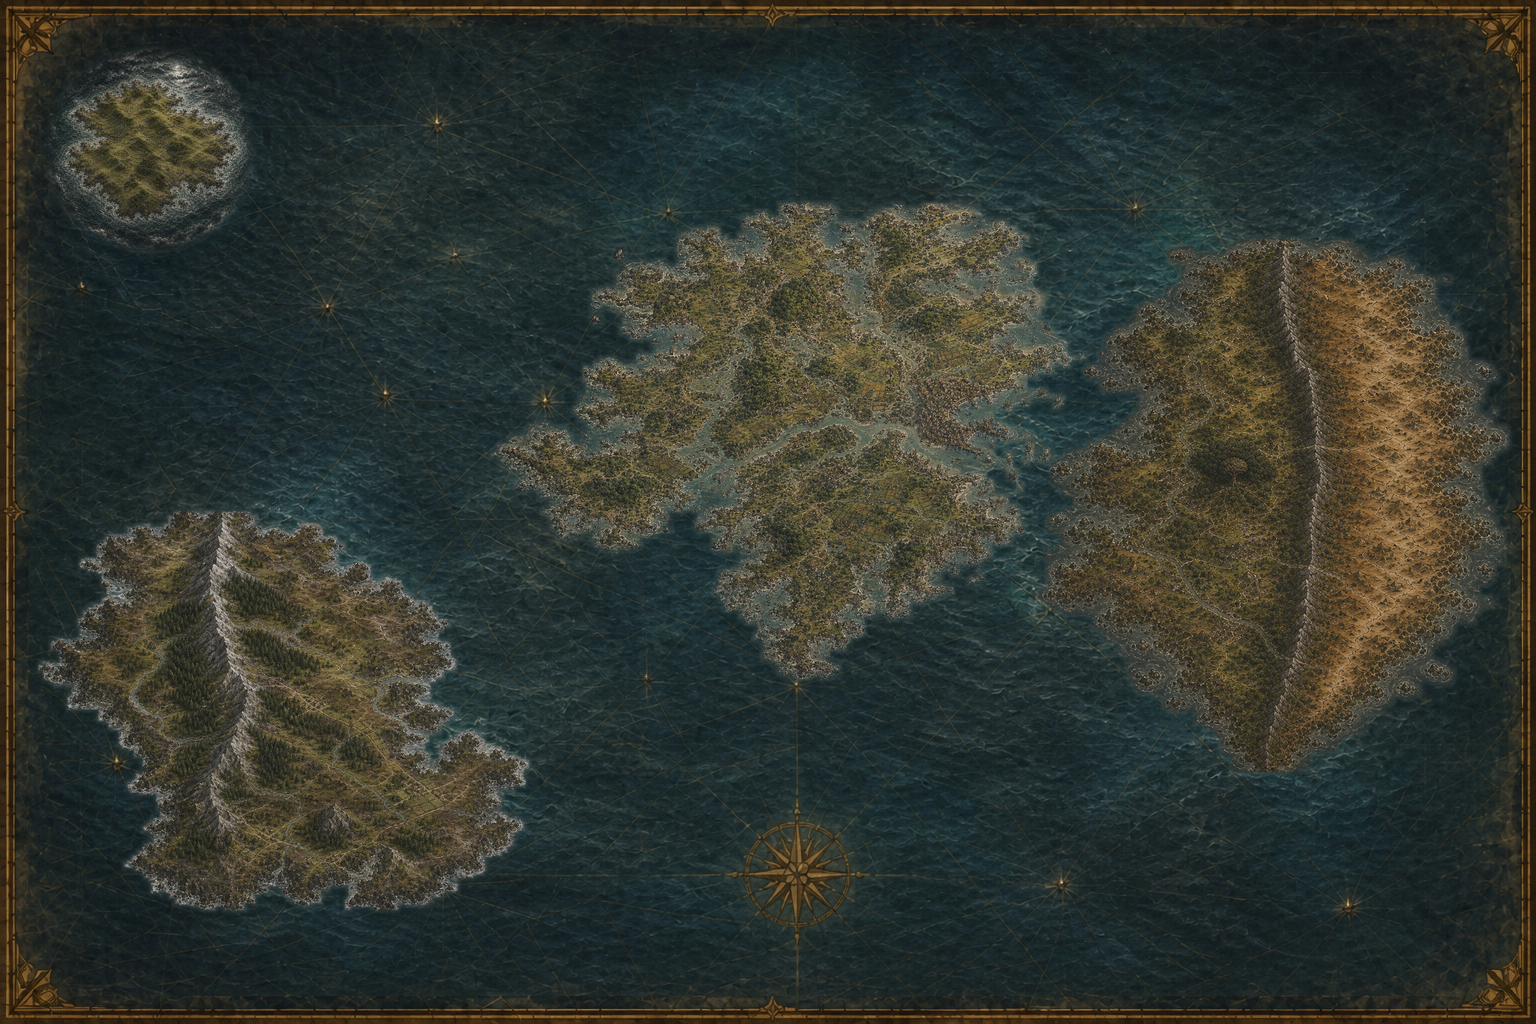
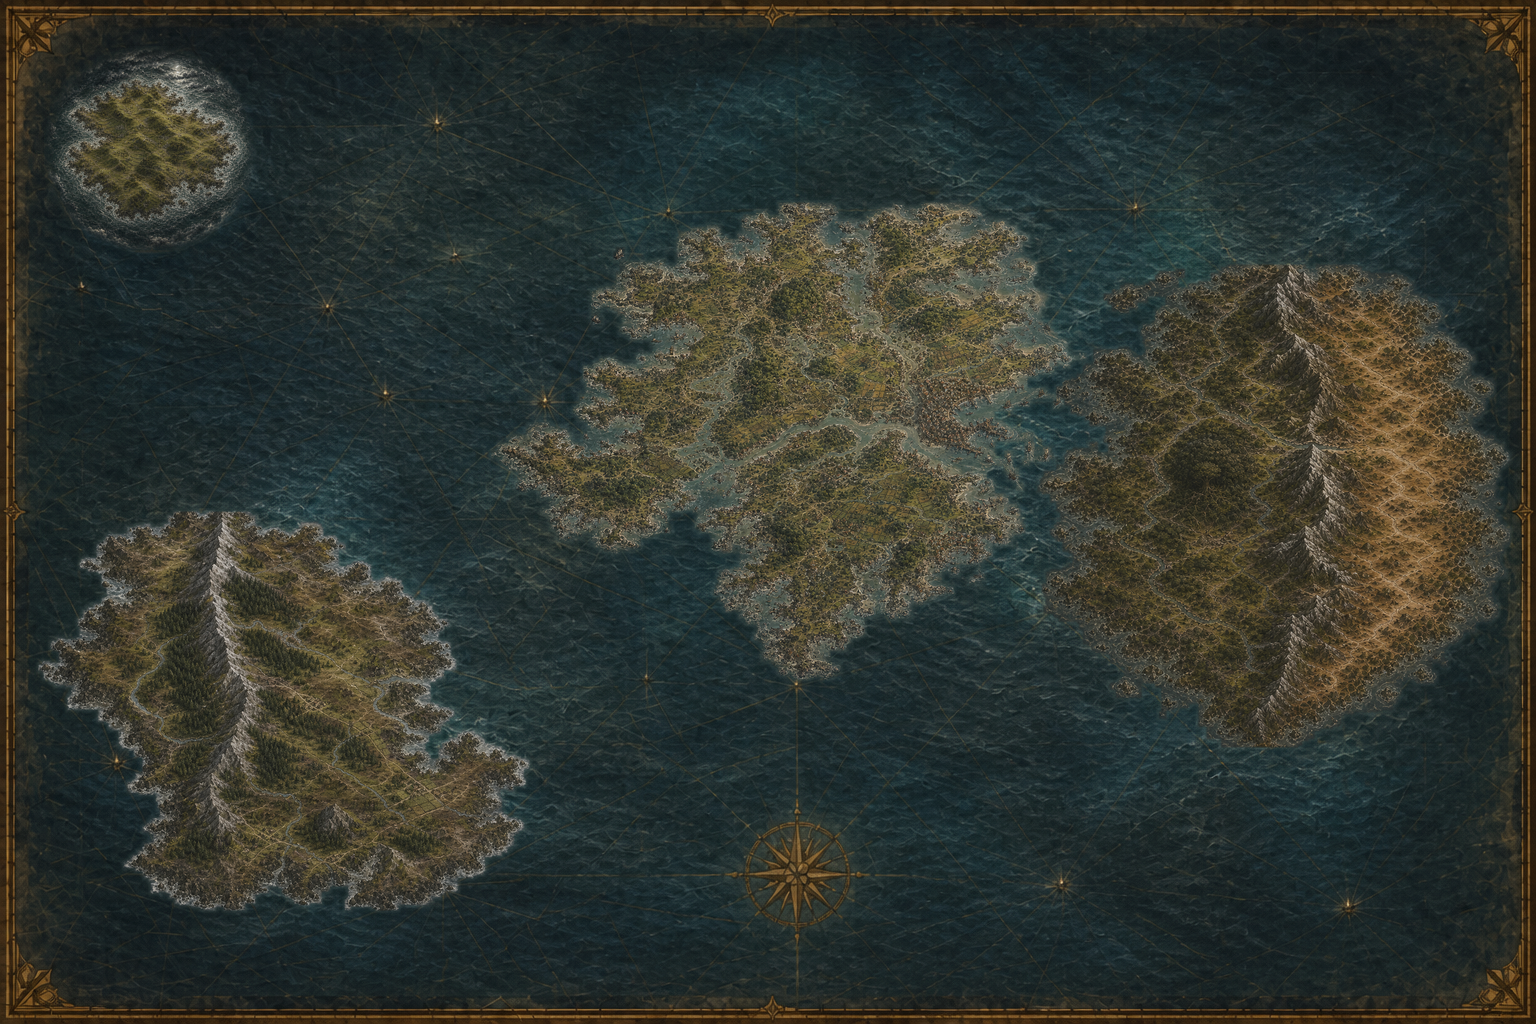
Give Maiethorn Rain-Wall natural character

Changed region(s): [[0.6562, 0.2188, 1.0, 0.75]]

diff --git a/14 - Assets/Maps/Map Generation Tooling.md b/14 - Assets/Maps/Map Generation Tooling.md
@@ -131,8 +131,10 @@ latitudes and almost touch. Between them a NARROW crowded channel — a handful
 of sailing-days, packed with tiny hull-ticks. They should read as one old
 settled world that happens to have a busy strait through it.
 
-MAIETHORN: bulky old continent. Western ports on the narrow sea. A LINEAR
-north-south rain-wall through its middle (not a ring). West of the spine:
+MAIETHORN: bulky old continent. Western ports on the narrow sea. An IRREGULAR
+north-south rain-divide through its middle (not a ring and not ruler-straight):
+three offset weathered massifs joined by saddles, branching foothills, and
+river-cut notches. West of the divide:
 green cathedral-country, river valleys, one irregular old-growth heart with a
 single enormous ancient tree-canopy. East of the spine: dry hills, sand-stipple,
 a dashed seasonal wash.
@@ -177,9 +179,13 @@ tree, darker and broader than any other canopy. A day's-walk ring of lodging
 country and one small walled town-mark just outside the wood (not a capital
 star). A thaw-river is born on the WEST FACE of the central highland and runs
 west, slowing at a counted river-town where the water can hold a mill and a
-grove. HIGHLAND SPINE north–south through the middle: weathered rain-wall,
-snow on the high shelves, two visible pass-notches (an older high notch with a
-pale water-stain line; a lower shelf-road still in use). EAST of the spine:
+grove. HIGHLAND CHAIN runs generally north–south through the middle as three
+offset weathered massifs. It bends, widens, narrows, branches into foothills,
+and briefly splits around upland basins before rejoining as one watershed.
+Broad saddles connect the massifs; snow lies on broken high shelves. Show two
+visible usable pass-notches (an older high notch with a pale water-stain line;
+a lower shelf-road still in use). Do not paint a uniform white knife-edge or a
+row of identical peaks. EAST of the divide:
 abrupt climate change — dry hills, sand-stipple, well-towns, a dashed seasonal
 watercourse, one west-road climbing back toward the passes. Ridge-perches and
 pale high snow on the spine. Mix of nucleated Tree-towns everywhere west of the

diff --git a/14 - Assets/Maps/Atlas Prototype Review.md b/14 - Assets/Maps/Atlas Prototype Review.md
@@ -74,7 +74,7 @@ The most atmospheric option: stronger sea states, rain, forest mass, and the wet
 - **Kumbaan:** one small island; complete storm/current/reef wall; rolling wet hill-country; no city, no quay, no graft, no hidden Tree, and no permanent safe channel.
 - **Heskoren:** rugged highlands distinct from Maiethorn's Rain-Wall; cooler moor and forest; sparse settlement pockets around surviving grafts; no capital star.
 - **Strandoren:** coast-dominant and deeply indented; wet lowlands; the Chart-run crosses toward the large eastern estuary; the eastern sea is busier than the western water.
-- **Maiethorn:** Rain-Wall north–south; wet, old, densely settled west; one exceptional canopy in the Motherwood; Core-thaw running west; dry Rain-Shadow and seasonal water east.
+- **Maiethorn:** Rain-Wall remains a north–south watershed but reads as offset weathered massifs, saddles, spurs, and river-cut notches rather than a straight ridge; wet, old, densely settled west; one exceptional canopy in the Motherwood; Core-thaw running west; dry Rain-Shadow and seasonal water east.
 - No political borders, Kind-nations, new powers, dated Tree, or First Seat capital were added.
 
 ## Visual interpolation register
